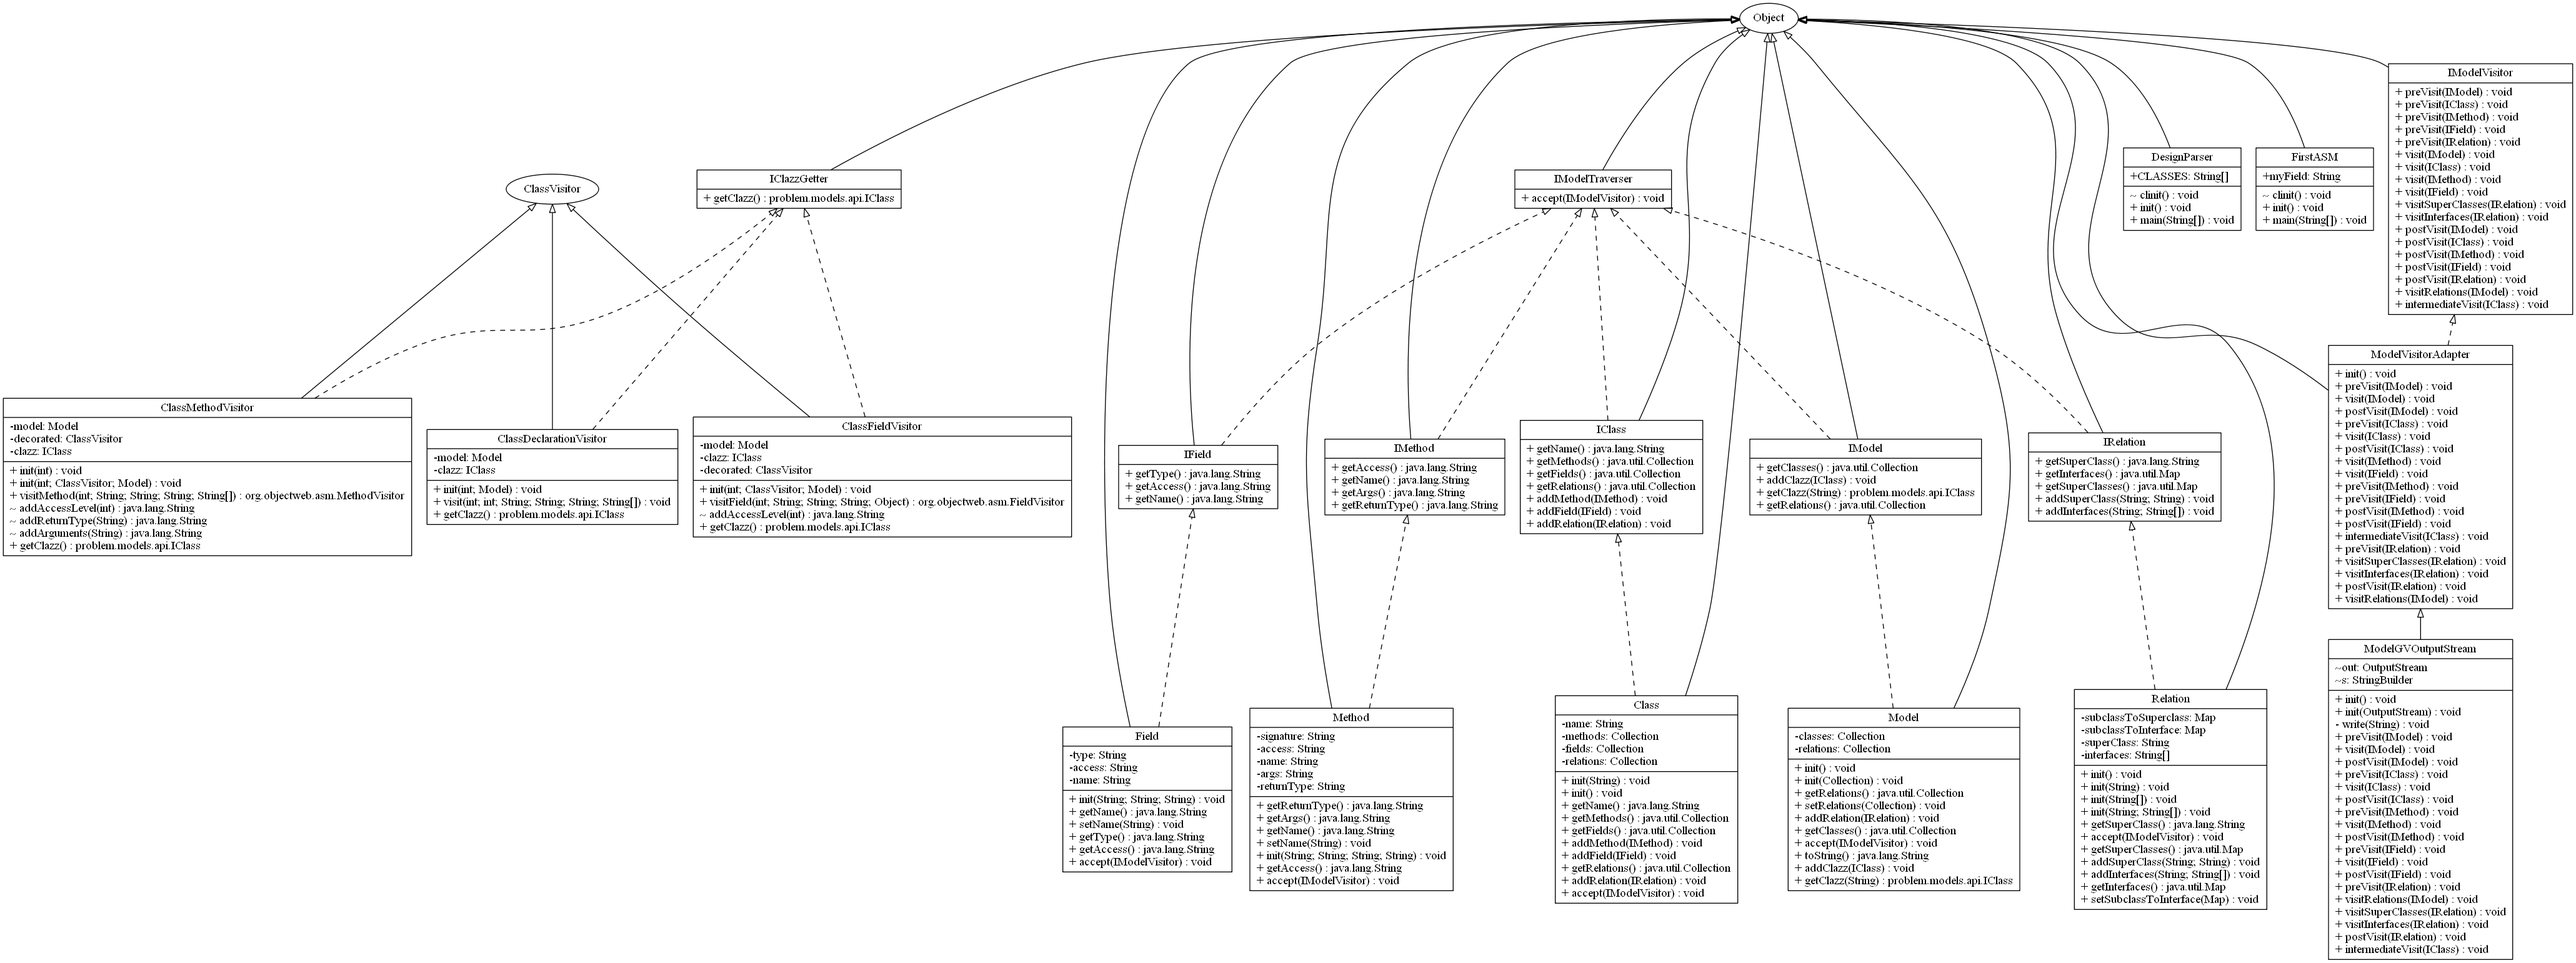
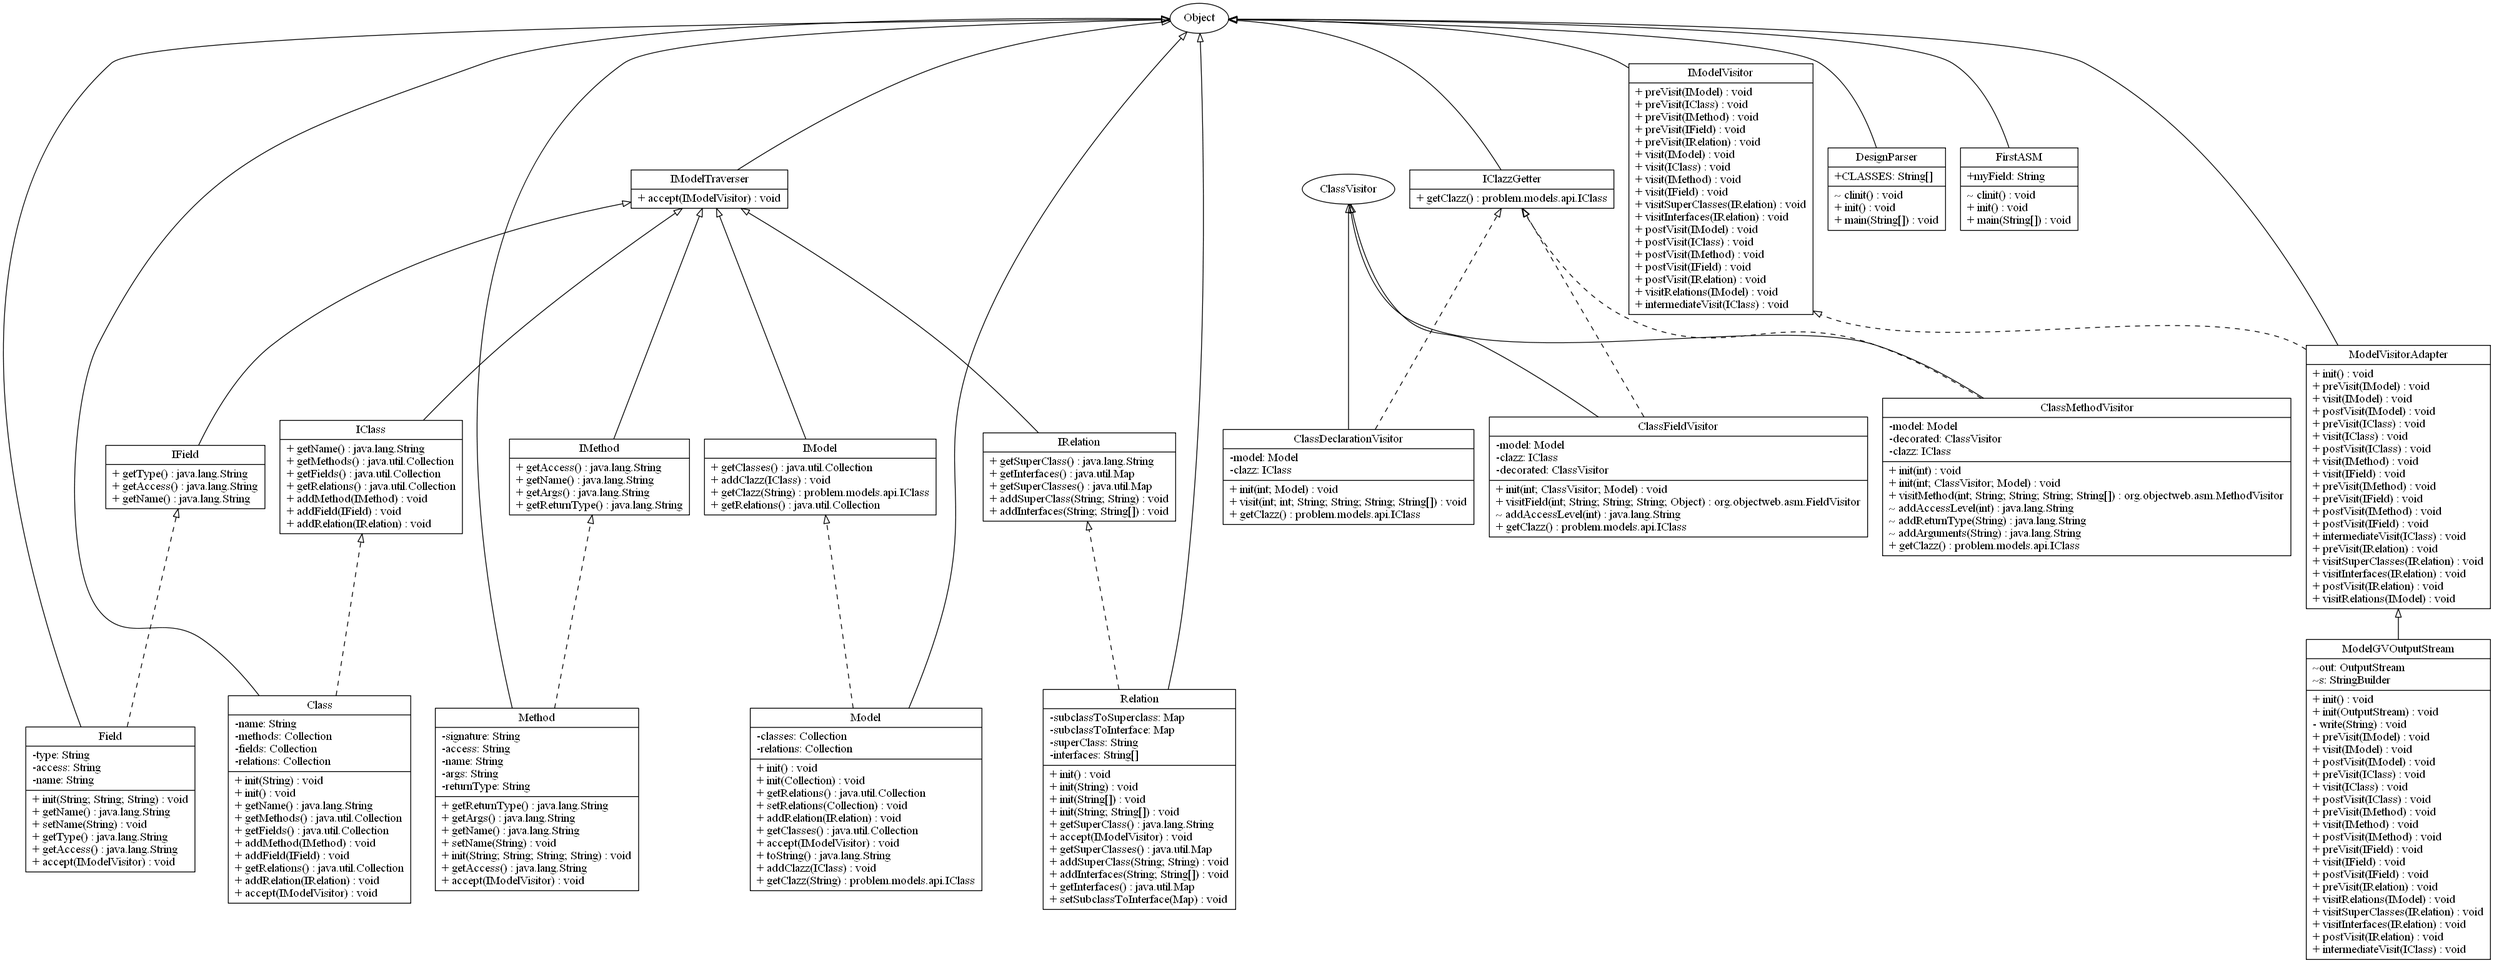
Fixed Interface Relations and Added a Test

diff --git a/test/problem/test/tests/GVTesting.java b/test/problem/test/tests/GVTesting.java
@@ -3,8 +3,11 @@ package problem.test.tests;
 import static org.junit.Assert.*;
 
 import java.io.IOException;
+import java.io.BufferedReader;
 import java.io.FileReader;
 import java.io.IOException;
+import java.nio.charset.StandardCharsets;
+import java.nio.file.FileSystems;
 import java.nio.file.Files;
 import java.nio.file.Path;
 import java.nio.file.Paths;
@@ -15,82 +18,81 @@ import org.junit.Test;
 import problem.AppLauncher;
 
 public class GVTesting {
-	
+
 	private TestDesignParser parser;
-	
+
 	@Before
 	public void setUp() throws Exception {
-		parser = new TestDesignParser();		
+		parser = new TestDesignParser();
 	}
 
 	@Test
 	public final void testEmptyClass() throws IOException {
-		String[] classes = {
-				"problem.test.classes.EmptyClass"
-		};
+		String[] classes = { "problem.test.classes.EmptyClass" };
+		parser.parse(classes);
+		FileReader reader = new FileReader("input_output/test.gv");
+		BufferedReader buffer = new BufferedReader(reader);
+
+		String file = "";
+		String line = "";
+		while ((line = buffer.readLine()) != null) {
+			file += line;
+		}
+		System.out.println(file);
+		
+		String gv = "digraph model{rankdir = BT;EmptyClass [shape=\"record\",label = \"{EmptyClass| + init() : void\\"+"l}\"];//writing relations between classes nowEmptyClass -> Object [arrowhead = \"empty\"];}";
+		System.out.println(gv);
+		assertEquals(gv, file); 
+		
+		buffer.close();
+		reader.close();
+	}
+
+	@Test
+	public final void testClassWithField() throws IOException {
+		String[] classes = { "problem.test.classes.EmptyClass" };
 		parser.parse(classes);
 		FileReader reader = new FileReader("input_output/test.gv");
 	}
-	
+
 	@Test
-	public final void testClassWithField() throws IOException{
-		String[] classes = {
-				"problem.test.classes.EmptyClass"
-		};
+	public final void testClassWithMethod() throws IOException {
+		String[] classes = { "problem.test.classes.EmptyClass" };
 		parser.parse(classes);
 		FileReader reader = new FileReader("input_output/test.gv");
 	}
-	
+
 	@Test
-	public final void testClassWithMethod() throws IOException{
-		String[] classes = {
-				"problem.test.classes.EmptyClass"
-		};
+	public final void testClassWithFieldAndMethod() throws IOException {
+		String[] classes = { "problem.test.classes.EmptyClass" };
 		parser.parse(classes);
 		FileReader reader = new FileReader("input_output/test.gv");
 	}
-	
+
 	@Test
-	public final void testClassWithFieldAndMethod() throws IOException{
-		String[] classes = {
-				"problem.test.classes.EmptyClass"
-		};
+	public final void testClassWithSuperClass() throws IOException {
+		String[] classes = { "problem.test.classes.EmptyClass" };
 		parser.parse(classes);
 		FileReader reader = new FileReader("input_output/test.gv");
 	}
-	
+
 	@Test
-	public final void testClassWithSuperClass() throws IOException{
-		String[] classes = {
-				"problem.test.classes.EmptyClass"
-		};
+	public final void testClassWithInterface() throws IOException {
+		String[] classes = { "problem.test.classes.EmptyClass" };
 		parser.parse(classes);
 		FileReader reader = new FileReader("input_output/test.gv");
 	}
-	
+
 	@Test
-	public final void testClassWithInterface() throws IOException{
-		String[] classes = {
-				"problem.test.classes.EmptyClass"
-		};
+	public final void testInterfaceWithSuperClass() throws IOException {
+		String[] classes = { "problem.test.classes.EmptyClass" };
 		parser.parse(classes);
 		FileReader reader = new FileReader("input_output/test.gv");
 	}
-	
+
 	@Test
-	public final void testInterfaceWithSuperClass() throws IOException{
-		String[] classes = {
-				"problem.test.classes.EmptyClass"	
-		};
-		parser.parse(classes);
-		FileReader reader = new FileReader("input_output/test.gv");
-	}
-	
-	@Test
-	public final void testClassWithEverything() throws IOException{
-		String[] classes = {
-				"problem.test.classes.EmptyClass"
-		};
+	public final void testClassWithEverything() throws IOException {
+		String[] classes = { "problem.test.classes.EmptyClass" };
 		parser.parse(classes);
 		FileReader reader = new FileReader("input_output/test.gv");
 	}

diff --git a/src/problem/asm/ClassDeclarationVisitor.java b/src/problem/asm/ClassDeclarationVisitor.java
@@ -9,11 +9,12 @@ import problem.models.impl.Model;
 import problem.models.impl.Relation;
 
 import org.objectweb.asm.ClassVisitor;
+import org.objectweb.asm.Opcodes;
 
 public class ClassDeclarationVisitor extends ClassVisitor implements IClazzGetter {
 	private Model model;
 	private IClass clazz;
-	
+
 	public ClassDeclarationVisitor(int api, Model m) {
 		super(api);
 		this.model = m;
@@ -22,22 +23,33 @@ public class ClassDeclarationVisitor extends ClassVisitor implements IClazzGette
 
 	@Override
 	public void visit(int version, int access, String name, String signature, String superName, String[] interfaces) {
-		
-		//removes everything except the last part of the class name
+
+		boolean isClass = true;
+		if ((access & Opcodes.ACC_INTERFACE) != 0) {
+			isClass = false;
+		}
+
+		// removes everything except the last part of the class name
 		String[] nameSplit = name.split("/");
-		name = nameSplit[nameSplit.length -1];
-		
+		name = nameSplit[nameSplit.length - 1];
+
 		this.clazz = new Class(name);
-		IRelation r = new Relation(superName, interfaces);
-		r.addSuperClass(name, superName);
-		r.addInterfaces(name, interfaces);
+		IRelation r;
+		if (!isClass && interfaces.length > 0) {
+			r = new Relation(interfaces[0]);
+			r.addSuperClass(name, interfaces[0]);
+		} else {			
+			r = new Relation(superName, interfaces);
+			r.addSuperClass(name, superName);
+			r.addInterfaces(name, interfaces);
+		}
 		this.clazz.addRelation(r);
 		this.model.addRelation(r);
 		this.model.addClazz(clazz);
-		
+
 		super.visit(version, access, name, signature, superName, interfaces);
 	}
-	
+
 	public IClass getClazz() {
 		return this.clazz;
 	}

diff --git a/src/problem/asm/DesignParser.java b/src/problem/asm/DesignParser.java
@@ -81,8 +81,8 @@ public class DesignParser {
 			out.close();
 			
 			//runs DOT on our .gv file. This might need to be moved?
-			//ProcessBuilder builder = new ProcessBuilder("cmd.exe", "/c", "\"C:\\Users\\leekf\\Documents\\JUNIOR\\CSSE374\\release\\bin\\dot\" -Tpng input_output/model.gv > input_output/graph1.png");
-			ProcessBuilder builder = new ProcessBuilder("cmd.exe", "/c", "\"C:\\Users\\punttj\\Desktop\\csse374\\release\\bin\\dot\" -Tpng input_output/model.gv > input_output/graph1.png");
+			ProcessBuilder builder = new ProcessBuilder("cmd.exe", "/c", "\"C:\\Users\\leekf\\Documents\\JUNIOR\\CSSE374\\release\\bin\\dot\" -Tpng input_output/model.gv > input_output/graph1.png");
+			//ProcessBuilder builder = new ProcessBuilder("cmd.exe", "/c", "\"C:\\Users\\punttj\\Desktop\\csse374\\release\\bin\\dot\" -Tpng input_output/model.gv > input_output/graph1.png");
 			builder.redirectErrorStream(true);
 			Process p = builder.start();
 			String line;

diff --git a/test/problem/test/classes/EmptyClass.java b/test/problem/test/classes/EmptyClass.java
@@ -1,0 +1,3 @@
+package problem.test.classes;
+
+public class EmptyClass {}
